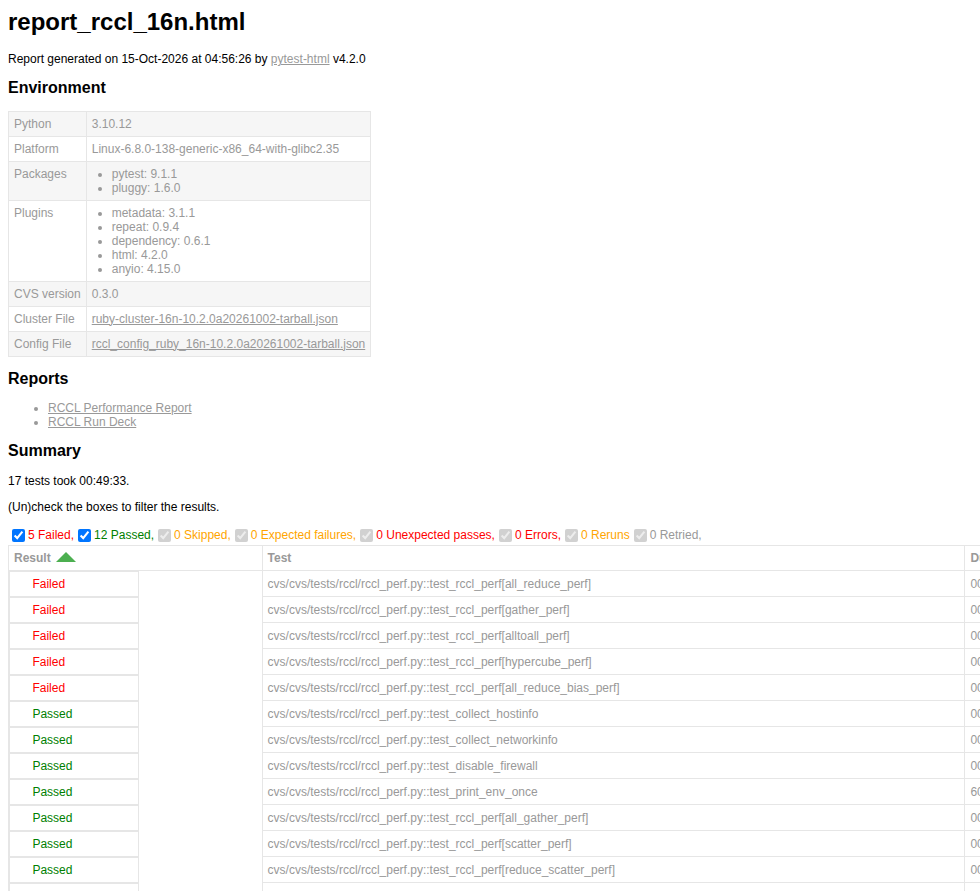
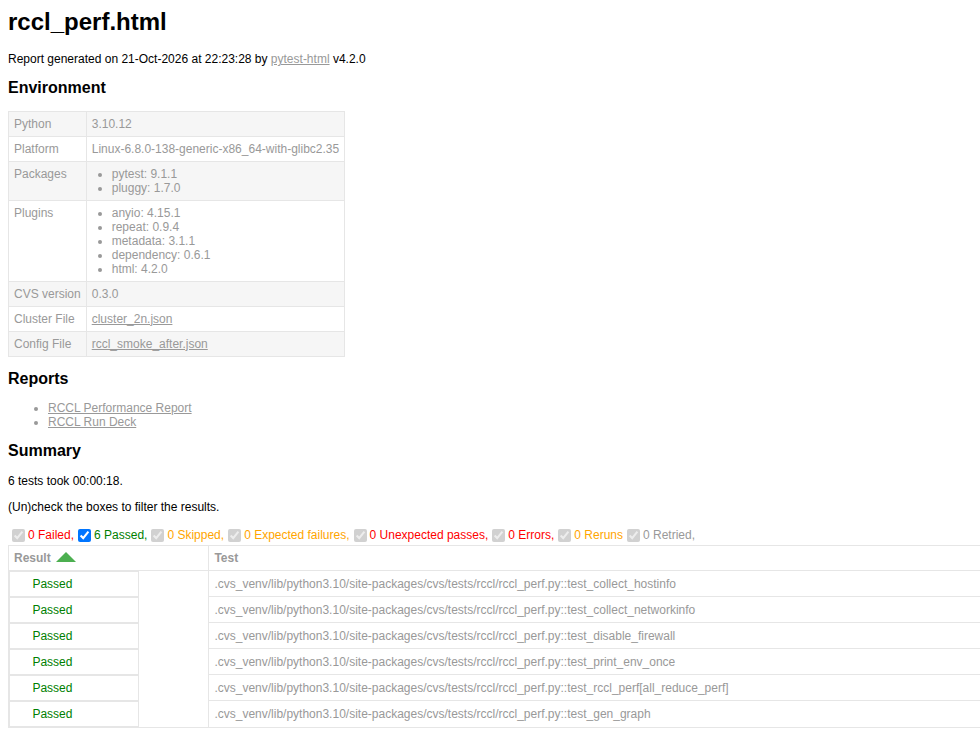
docs(network): refresh RCCL screenshots for Run Deck viewer
Drop legacy amCharts perf-report images and recapture pytest, static Run
Deck, and interactive viewer samples from the AIMVT-367 pr641-cherry-643
RCCL perf bundle.

Changed region(s): [[0.0, 0.0, 0.7653, 1.0], [0.9796, 0.625, 1.0, 1.0]]

diff --git a/docs/how-to/test-suites/network/index.rst b/docs/how-to/test-suites/network/index.rst
@@ -41,39 +41,29 @@ Sample output snapshots from an RCCL performance run.
 HTML test report
 ----------------
 
-The pytest HTML report lists each RCCL perf test and links to the bundled RCCL
-performance report and RCCL Run Deck.
+The pytest HTML report lists each RCCL perf test and links to the RCCL Run
+Deck.
 
 .. image:: /images/network_rccl_pytest_report.png
    :alt: RCCL pytest HTML test report
 
-RCCL performance report
----------------------
-
-The bundled RCCL performance report summarizes collective bandwidth and
-latency across message sizes.
-
-**Bandwidth graph:**
-
-.. image:: /images/network_rccl_perf_bandwidth_graph.png
-   :alt: RCCL performance bandwidth graph
-
-**Results table:**
-
-.. image:: /images/network_rccl_perf_results_table.png
-   :alt: RCCL performance results table
-
 Run Deck report
 ---------------
 
-The Run Deck dashboard: run card, bandwidth charts by message size, and full
-results.
+The static Run Deck HTML summarizes the run and links to the interactive
+viewer.
 
 .. image:: /images/network_rccl_rundeck_run_card.png
    :alt: RCCL Run Deck run card
 
-.. image:: /images/network_rccl_rundeck_bandwidth_charts.png
-   :alt: RCCL Run Deck bus bandwidth charts
+Run Deck interactive viewer
+---------------------------
+
+The interactive viewer charts bus bandwidth, algorithm bandwidth, and time by
+message size, and includes the full results table.
+
+.. image:: /images/network_rccl_rundeck_viewer_charts.png
+   :alt: RCCL Run Deck interactive viewer bandwidth charts
 
 .. image:: /images/network_rccl_rundeck_full_results.png
-   :alt: RCCL Run Deck full results table
+   :alt: RCCL Run Deck interactive viewer full results table

diff --git a/docs/how-to/test-suites/index.rst b/docs/how-to/test-suites/index.rst
@@ -161,6 +161,6 @@ Test output examples
 Sample reports for each category are on that category's page, under **Test results**:
 
 - :doc:`Burn-in / Diag </how-to/test-suites/burn-in-diag/index>` — pytest HTML report and Run Deck
-- :doc:`Network </how-to/test-suites/network/index>` — RCCL pytest HTML report, performance report, and Run Deck
+- :doc:`Network </how-to/test-suites/network/index>` — RCCL pytest HTML report, Run Deck, and interactive viewer
 - :doc:`Training </how-to/test-suites/training/index>` — pytest HTML report, Run Deck, and interactive viewer
 - :doc:`Inference </how-to/test-suites/inference/index>` — pytest HTML report, Run Deck, and interactive viewer
